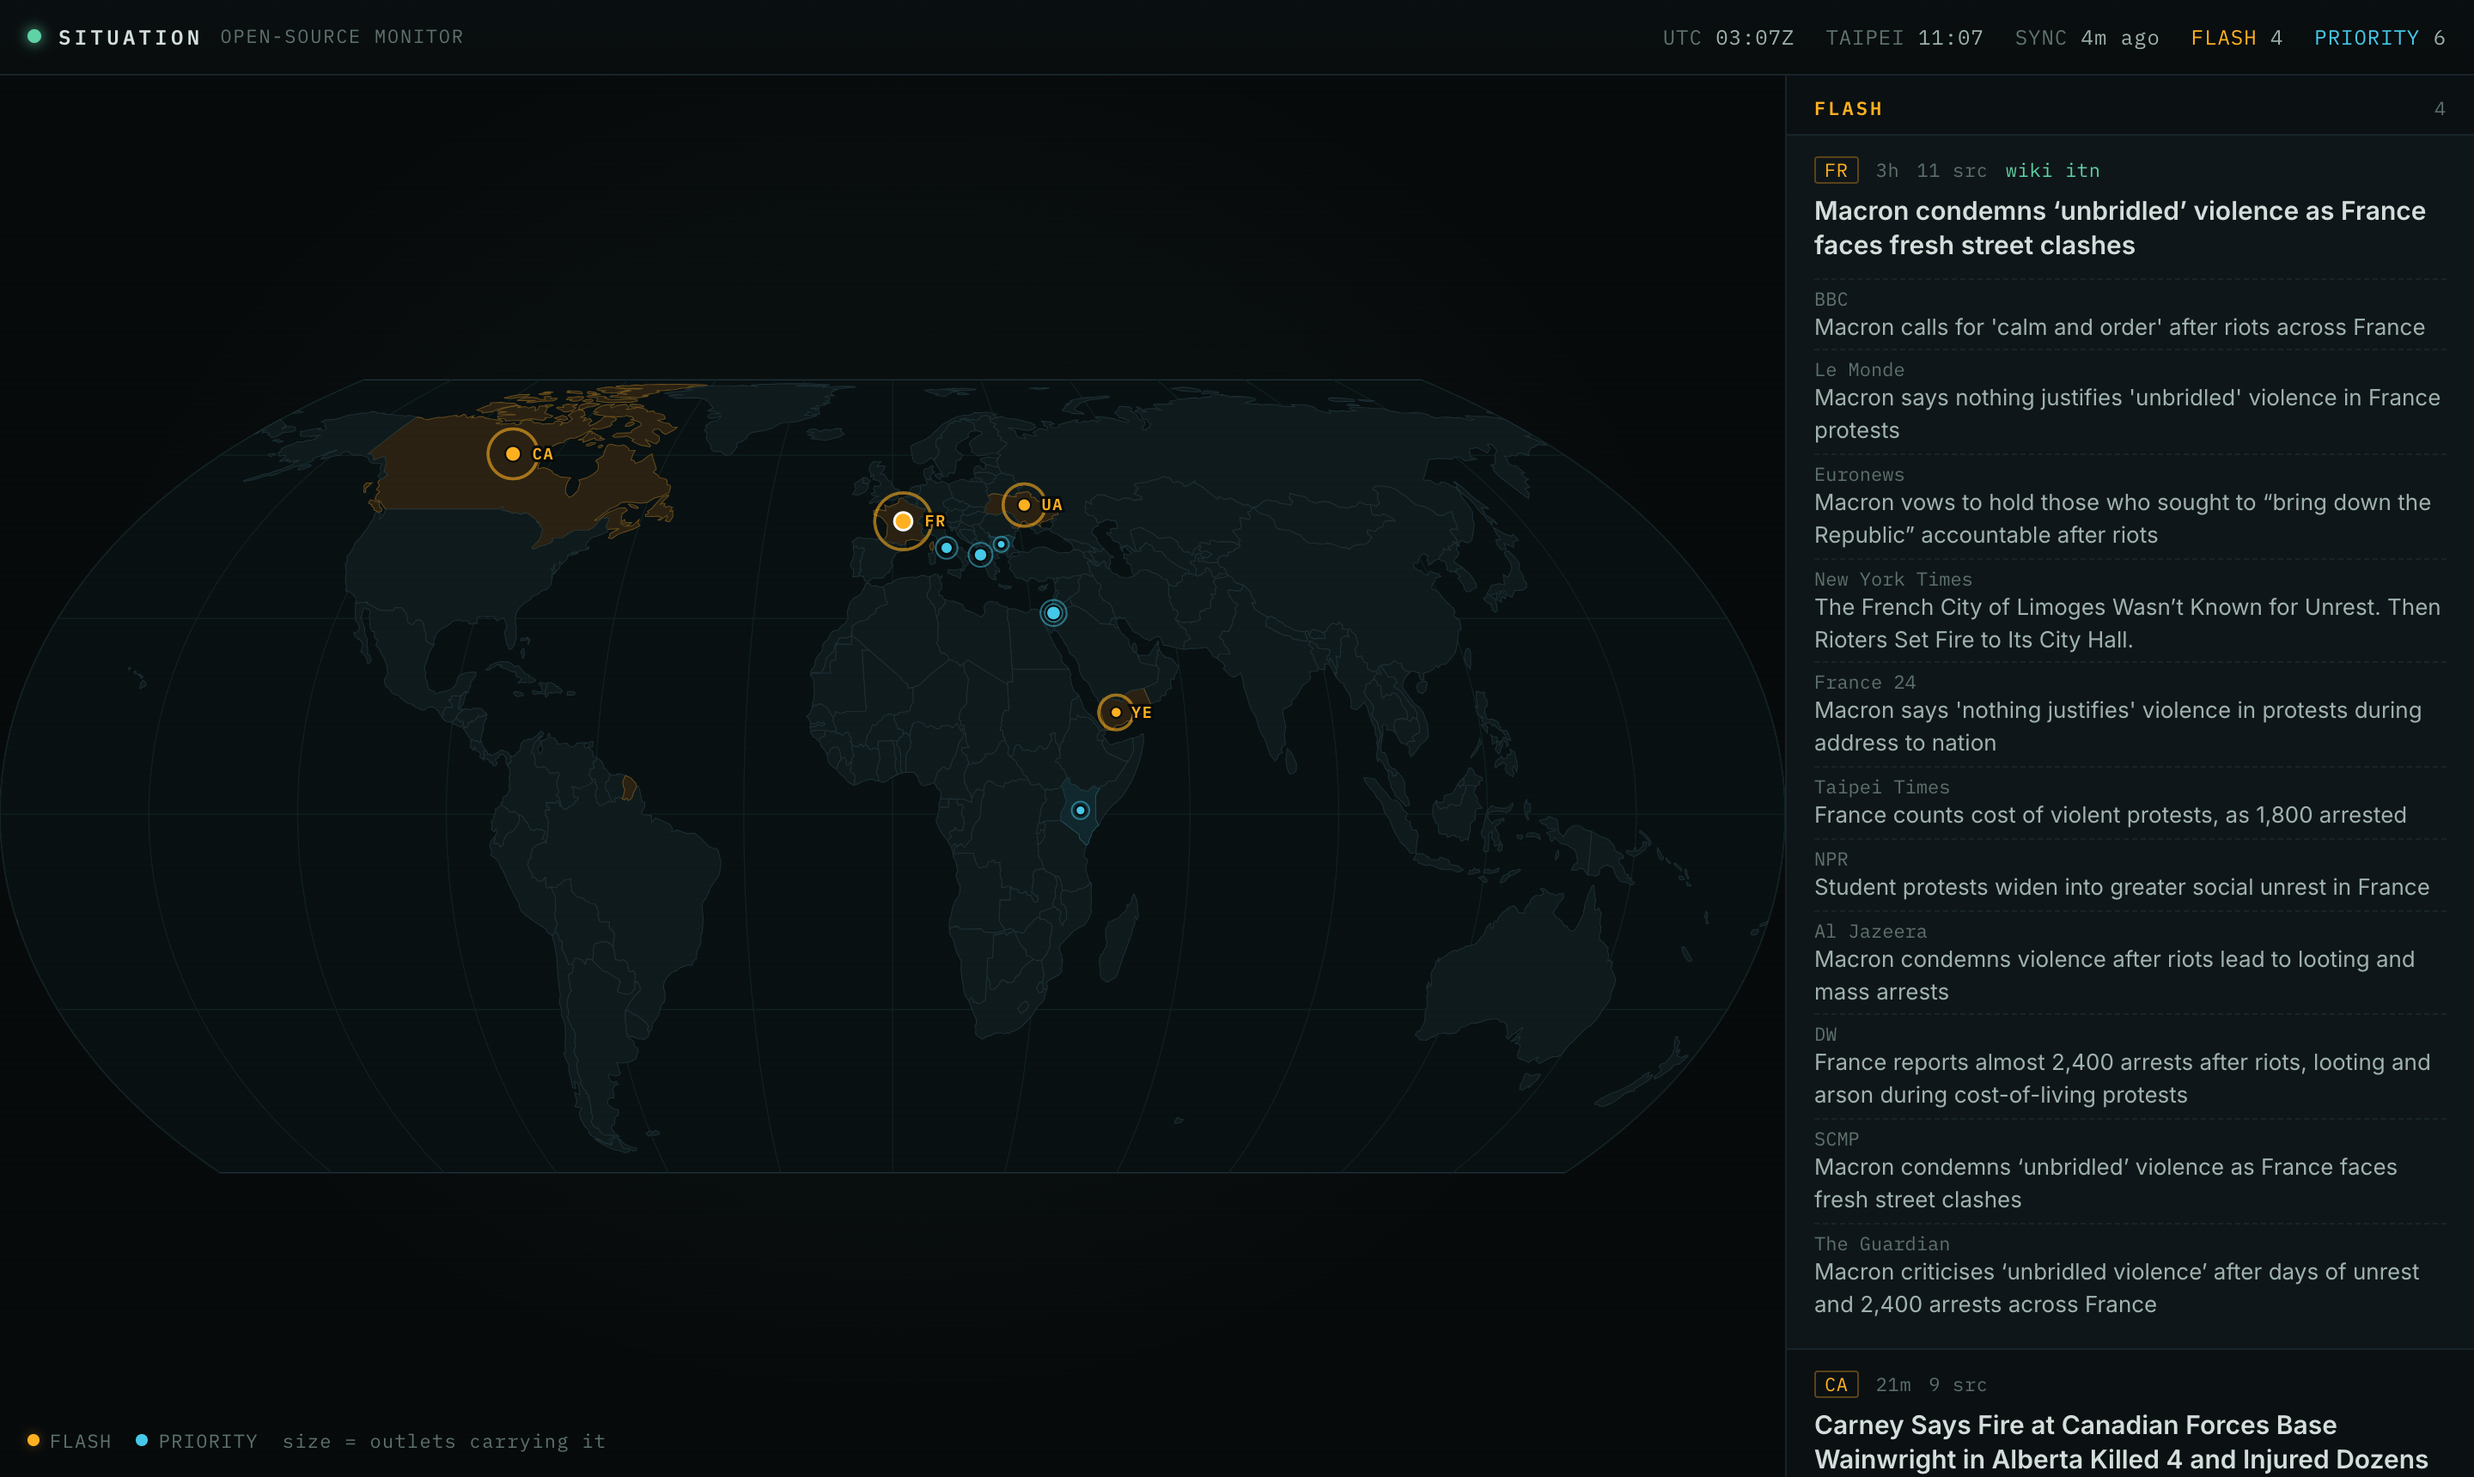
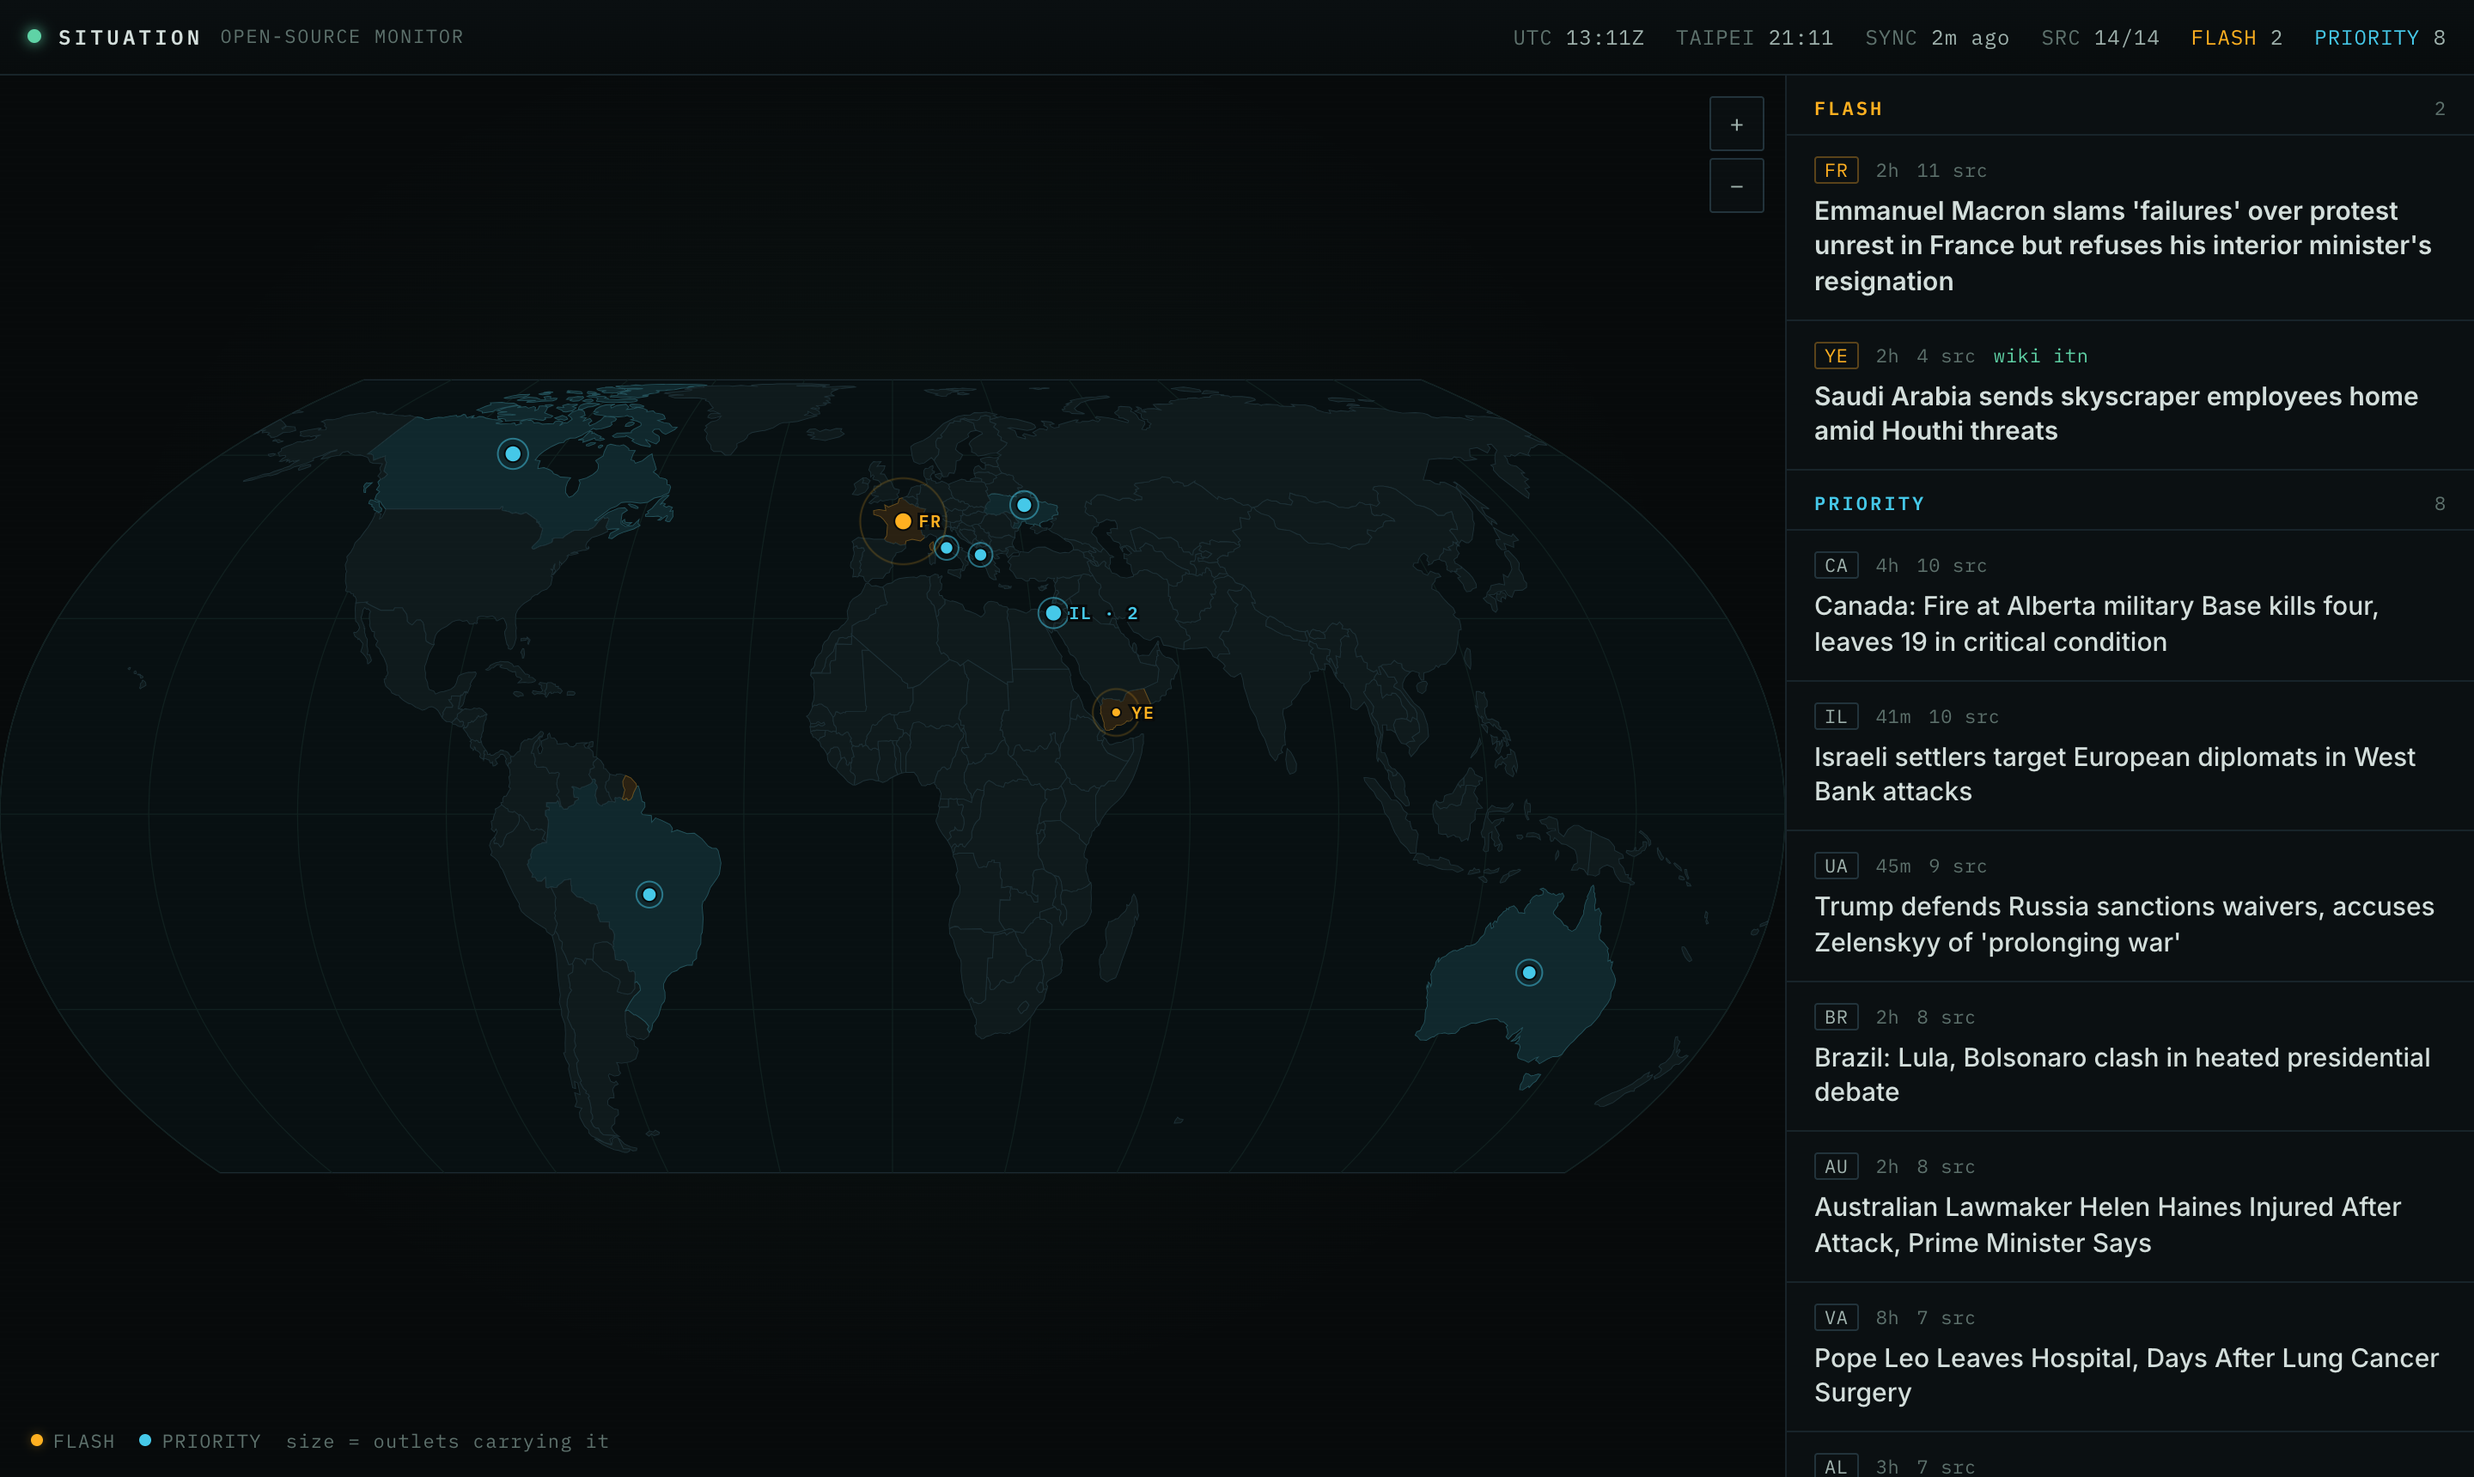
small/add screenshots and keep map labels from overlapping

diff --git a/static/js/situation.js b/static/js/situation.js
@@ -105,7 +105,7 @@
     /** The view showing a box, with a margin, no closer than `minW` across. */
     function fit([x0, y0, x1, y1], minW = 14) {
         const { aspect } = screen();
-        let w = Math.max((x1 - x0) * 1.3, ((y1 - y0) * 1.3) / aspect, minW);
+        let w = Math.max((x1 - x0) * 1.5, ((y1 - y0) * 1.5) / aspect, minW);
         w = Math.min(w, world.width);
         const h = w * aspect;
         return clamp({ x: (x0 + x1) / 2 - w / 2, y: (y0 + y1) / 2 - h / 2, w, h });
@@ -174,9 +174,10 @@
             theatre.classList.toggle('zoomed', !!view);
             document.querySelector('.theatre').classList.toggle('close', close);
             drawDetail(v, close);
-            const taken = drawPins(upp, close);                  // the news first: cities give way to it
+            // The news first, then the week's places, then cities for orientation: each gives way to the last.
+            const taken = drawPins(upp, close);
+            drawTrack(upp, taken);
             drawRefs(v, upp, close, taken);
-            drawTrack(upp);
         });
     }
 
@@ -230,10 +231,13 @@
         // Fewer, bigger cities the further out: enough to know where you are.
         const minPop = v.w < 15 ? 0 : v.w < 60 ? 250000 : v.w < 120 ? 600000 : 1500000;
         const within = (x, y) => x > v.x && x < v.x + v.w && y > v.y && y < v.y + v.h;
+        // Places the news or the week's track already name.
+        const onMap = new Set([...document.querySelectorAll('#pins .tag, #track .track-label')].map((t) => t.textContent));
         for (const [iso, d] of details) {
             if (!inView(d.bbox, v)) continue;
             for (const c of d.cities) {
-                if (c.pop < minPop || !within(c.x, c.y)) continue;
+                if (c.pop < minPop || !within(c.x, c.y) || onMap.has(c.name)) continue;
+                if (taken.some(([tx, ty, tw, th]) => c.x >= tx && c.x <= tx + tw && c.y >= ty && c.y <= ty + th)) continue;
                 el('circle', { cx: c.x, cy: c.y, r: 1.6 * upp, class: 'city' }, layer);
                 const spot = labelSpot(c.x, c.y, c.name, taken, upp, 3);
                 if (!spot) continue;
@@ -263,12 +267,16 @@
 
     /** An active situation's past week: every place named there, bigger the more
      * often, fading with age. Shown while that situation is picked. */
-    function drawTrack(upp) {
+    function drawTrack(upp, taken = []) {
         const layer = $('track');
         layer.innerHTML = '';
         if (!filter?.track?.length) return;
         const now = Date.now();
-        const taken = [];
+        const named = new Set(data.stories.flatMap((s) => (s.spots || []).map((p) => p.name)));
+        for (const t of filter.track) {
+            const r = (3 + Math.sqrt(t.n) * 2.2) * upp;
+            taken.push([t.x - r, t.y - r, 2 * r, 2 * r]);
+        }
         for (const [i, t] of filter.track.entries()) {
             const hours = (now - new Date(t.last)) / 3600000;
             const fresh = Math.max(0.25, 1 - hours / 168);
@@ -276,7 +284,7 @@
             const g = el('g', { class: 'track-spot' }, layer);
             el('circle', { cx: t.x, cy: t.y, r, 'fill-opacity': 0.35 * fresh, 'stroke-opacity': fresh }, g);
             el('title', {}, g).textContent = `${t.name}: named in ${t.n} article${t.n > 1 ? 's' : ''} this week, last ${ago(t.last)} ago`;
-            if (i < 8) {
+            if (i < 8 && !named.has(t.name)) {                  // today's pin already says its name
                 const spot = labelSpot(t.x, t.y, t.name, taken, upp, r / upp + 3);
                 if (spot) {
                     const label = el('text', { x: spot.x, y: spot.y, class: 'track-label', 'text-anchor': spot.anchor }, g);

diff --git a/static/css/situation.css b/static/css/situation.css
@@ -103,7 +103,8 @@ body {
 .map-missing { margin: 0; padding: 24px 16px; color: var(--muted); font: 12px var(--mono); }
 @keyframes pulse { from { transform: scale(1); opacity: 0.9; } to { transform: scale(3.2); opacity: 0; } }
 .legend {
-    position: absolute; left: 16px; bottom: 14px; display: flex; gap: 14px; align-items: center;
+    position: absolute; left: 10px; bottom: 10px; display: flex; gap: 14px; align-items: center;
+    padding: 4px 8px; border-radius: 2px; background: rgba(7, 10, 11, 0.8);
     font: 11px var(--mono); color: var(--muted); text-transform: uppercase; letter-spacing: 0.06em;
 }
 .dot { display: inline-block; width: 7px; height: 7px; border-radius: 50%; margin-right: 6px; vertical-align: 1px; }

diff --git a/README.md b/README.md
@@ -4,16 +4,24 @@ An open-source intelligence wall for the home stack: the world map with today's 
 
 ![Situation](images/situation-2026-10.png)
 
+<p>
+  <img src="images/headline-2026-10.png" alt="A headline open: the map goes to the places it names, the French riots in Paris, Lyon, Limoges and Marseille" width="49%">
+  <img src="images/active-situation-2026-10.png" alt="An active situation, the Russo-Ukrainian war: every place named there this week" width="49%">
+</p>
+
+![On a phone: today's stories, a country, and an active situation](images/phone-2026-10.png)
+
 ## Features
 
 - **The map** is the centrepiece. Each country with news gets one pin, sized by how many outlets carry its biggest story; FLASH pulses amber, PRIORITY is cyan. Tap a pin to see that country's stories.
 - **Zoom in on a place.** Pinch, scroll or tap a country to zoom: regions and cities appear, and stories show as the places they name, such as the cities of the French riots. Tap an active situation to see every place named there in the past week, bigger the more often and fading with age. That shows where the reporting is, which isn't a verified front line.
+- **The map follows what you pick.** A country, a place or an active situation filters the list and zooms the map to it; *Show all* brings back both. Moving the map yourself never changes the list, and *World* only zooms out.
 - **A high bar.** Fourteen outlets on four continents are read every 15 minutes and grouped by event. A story is shown only when several independent newsrooms carry it or Wikipedia's editors put it "In the news". A normal day shows five to ten stories out of several hundred, and never more than ten.
 - **Two tiers.** FLASH: new on Wikipedia's "In the news" (for its first day), or the lead story on several front pages at once. PRIORITY: carried by four or more outlets (three if one leads with it); Hong Kong, Taiwan, China and the UK get a lower bar.
 - **Active situations.** Wikipedia's "Ongoing" list (wars, offensives, outbreaks), each with its latest development that more than one outlet carries.
 - **Earlier this week.** The past seven days' stories, under today's.
 - **Honest about itself.** If the news on screen is old, the server can't be reached or you've been signed out, the page says so; a feed that has gone quiet shows in the status bar.
-- **Sources a tap away.** Open a story to see every outlet's own headline and link.
+- **Sources a tap away.** Open a story to see every outlet's own headline and link; the map goes to the places it names, and back when you close it.
 - **Phone-first.** The map on top, the list under it.
 
 How importance is decided, and what comes next: [`docs/plan.md`](docs/plan.md).

diff --git a/docs/plan.md b/docs/plan.md
@@ -58,6 +58,7 @@ An operations-room wall: open-source intelligence, not a newspaper.
 - **A status bar** with UTC and local clocks, time since the last sync, and counts per tier.
 - **Type:** facts (codes, times, counts, outlet names) in IBM Plex Mono, headlines in Inter so they read at a glance.
 - **On a phone** the map sits on top and the list follows.
+- **Zooming in** shows regions, cities and the places each story names (see the README). Picking a country, place or situation drives both the map and the list; moving the map never changes the list.
 
 ## Delivery
 
@@ -80,7 +81,7 @@ Data older than 30 days is pruned; story headlines are kept for the weekly view.
 ## Phases
 
 1. **Scaffold (done):** fetch the RSS and ITN sources; cluster, place, score and tier; the map page; the background fetch loop; CLI commands `fetch` and `brief`; tests on a real snapshot from 18 Oct 2026.
-2. **Live:** join the stack (a GitHub repo, a compose service, nginx `/situation/`, the dashboard tile and the auto-deploy).
+2. **Live (done):** join the stack (a GitHub repo, a compose service, nginx `/situation/`, the dashboard tile and the auto-deploy), then the audit's fixes and zoomable regional maps.
 3. **Delivery:** morning brief and Major alerts through ntfy, with quiet hours.
 4. **Claude:** neutral headlines, "why it matters", and the significance check.
 5. **Later:** a weekly recap, the MCP tool, "mark as seen", per-region bars you can tune.
